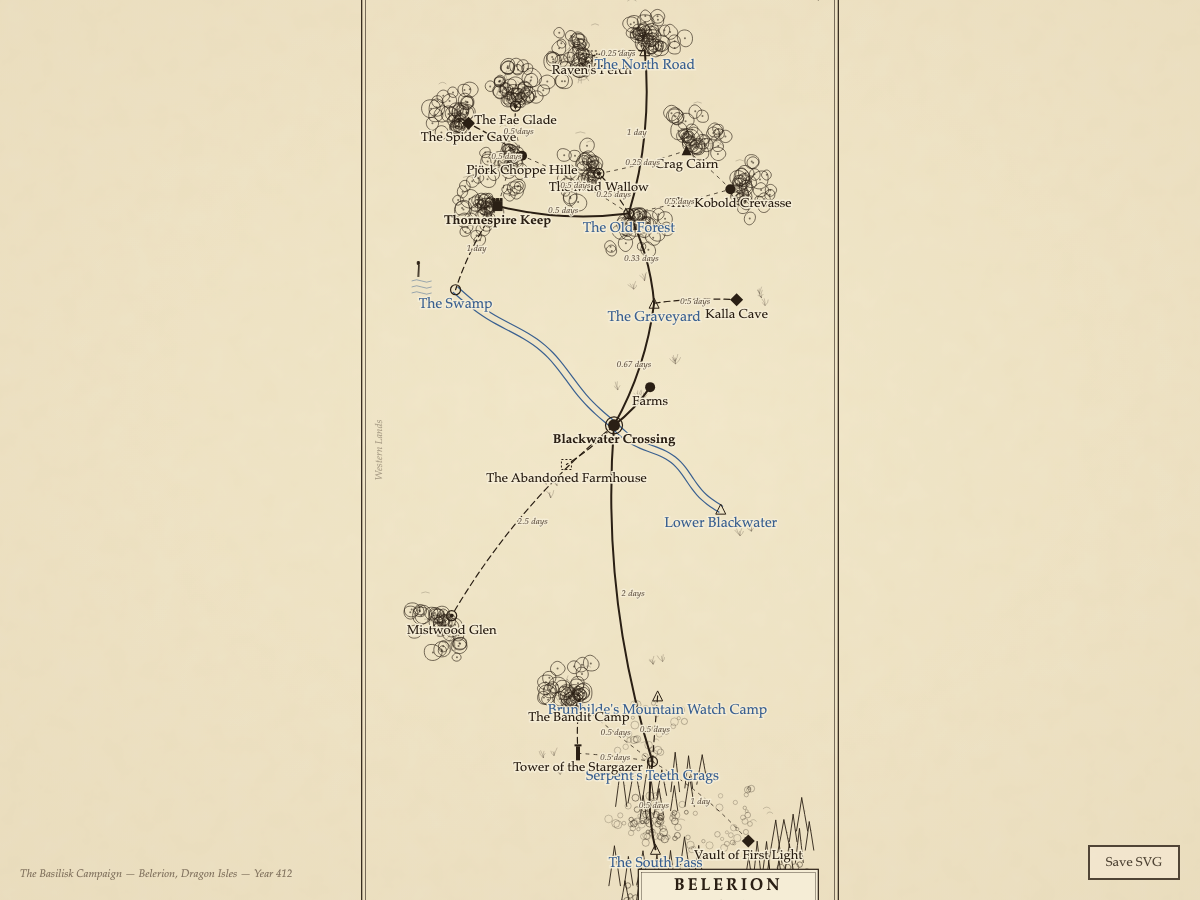
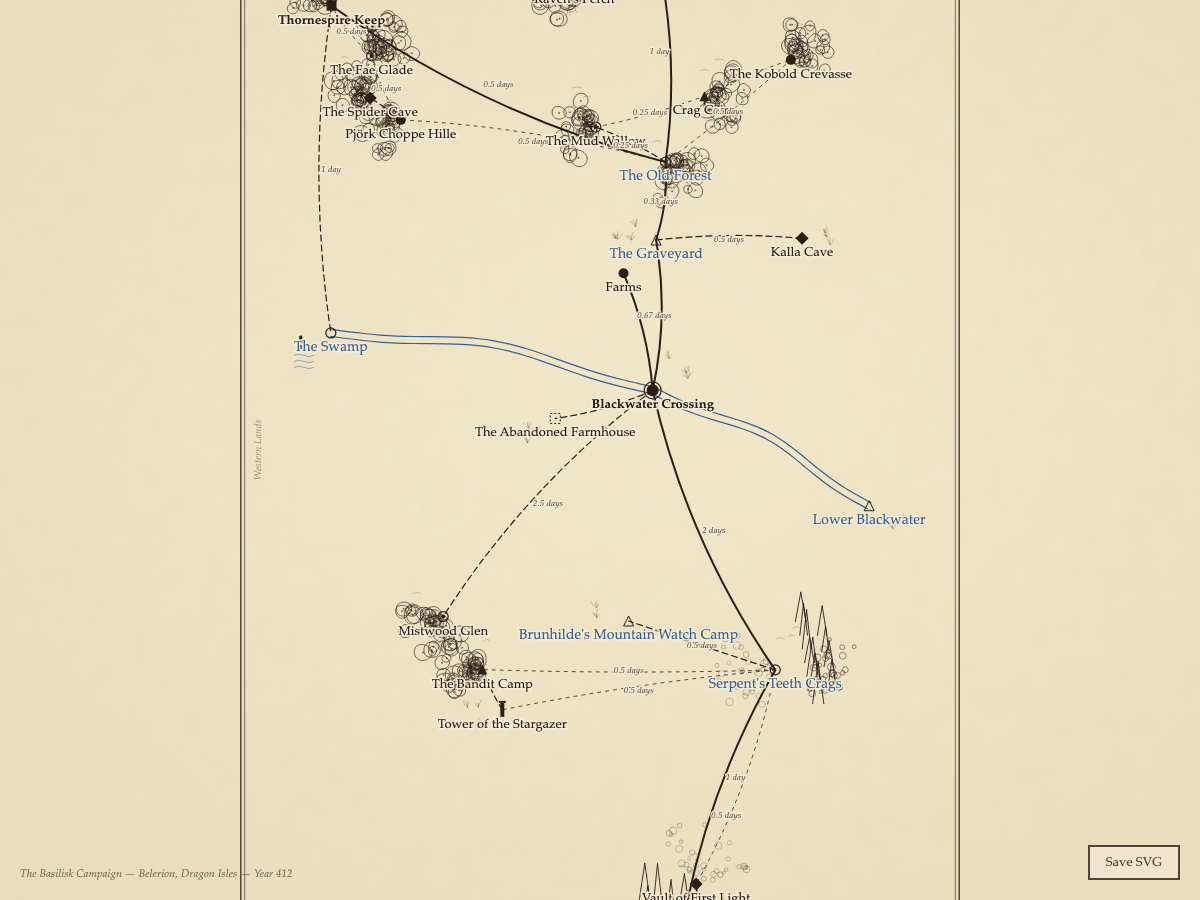
wip

diff --git a/maps/wilderland.html b/maps/wilderland.html
@@ -130,7 +130,7 @@ const PARCHMENT_DARK = "#ddd0b4";
 
 const WIDTH = window.innerWidth;
 const HEIGHT = window.innerHeight;
-const HINT_SCALE = 3;
+const HINT_SCALE = 100; // 1 unit = 1 inch on the hand-drawn 8.5x11 map
 const DAY_SCALE = 100;
 
 // --- Seeded random for deterministic symbol placement ---
@@ -276,8 +276,8 @@ function drawRocks(g, x, y, size, rng) {
   // Scattered small pebble circles — distinctive Wilderland texture
   const count = 9 + Math.floor(rng() * 8);
   for (let i = 0; i < count; i++) {
-    const rx = x + (rng() - 0.5) * size * 1.8;
-    const ry = y + (rng() - 0.5) * size * 1.5;
+    const rx = x + (rng() - 0.5) * size * 2.2;
+    const ry = y + (rng() - 0.5) * size * 1.9;
     const r = 1.5 + rng() * 2.5;
     g.append("circle")
       .attr("cx", rx).attr("cy", ry)
@@ -431,7 +431,7 @@ function renderTerrainSymbols(container, nodes, links) {
         const r = offset * (0.15 + rng() * 0.5);
         const tx = node.x + Math.cos(a) * r;
         const ty = node.y + Math.sin(a) * r;
-        drawTreeCanopy(terrainGroup, tx, ty, 10 + rng() * 5, rng);
+        drawTreeCanopy(terrainGroup, tx, ty, 13 + rng() * 5, rng);
       }
       // Second cluster — deeper forest layer at larger radius
       const count2 = 10 + Math.floor(rng() * 6);
@@ -440,7 +440,7 @@ function renderTerrainSymbols(container, nodes, links) {
         const r = offset * (0.8 + rng() * 0.4);
         const tx = node.x + Math.cos(a) * r;
         const ty = node.y + Math.sin(a) * r;
-        drawTreeCanopy(terrainGroup, tx, ty, 10 + rng() * 5, rng);
+        drawTreeCanopy(terrainGroup, tx, ty, 13 + rng() * 5, rng);
       }
       // Spiderwebs scattered among the trees
       const webCount = 1 + Math.floor(rng() * 2);
@@ -952,11 +952,11 @@ async function initMap() {
   });
 
   const simulation = d3.forceSimulation(nodes)
-    .force("link", d3.forceLink(links).id(d => d.id).distance(d => Math.max(40, (d.days || 1) * DAY_SCALE)))
-    .force("charge", d3.forceManyBody().strength(-200))
-    .force("collide", d3.forceCollide(25))
-    .force("x", d3.forceX(d => (d.x_hint || 0) * HINT_SCALE + WIDTH / 2).strength(0.3))
-    .force("y", d3.forceY(d => (d.y_hint || 0) * HINT_SCALE + HEIGHT / 2).strength(0.3));
+    .force("link", d3.forceLink(links).id(d => d.id).distance(d => Math.max(40, (d.days || 1) * DAY_SCALE)).strength(0.05))
+    .force("charge", d3.forceManyBody().strength(-50))
+    .force("collide", d3.forceCollide(15))
+    .force("x", d3.forceX(d => (d.x_hint || 0) * HINT_SCALE + WIDTH / 2).strength(0.9))
+    .force("y", d3.forceY(d => (d.y_hint || 0) * HINT_SCALE + HEIGHT / 2).strength(0.9));
 
   simulation.stop();
   for (let i = 0; i < 300; i++) simulation.tick();

diff --git a/maps/treasuremap.html b/maps/treasuremap.html
@@ -139,7 +139,7 @@ const DARK_INK = "#3a3a30";
 
 const WIDTH = window.innerWidth;
 const HEIGHT = window.innerHeight;
-const HINT_SCALE = 3;
+const HINT_SCALE = 100; // 1 unit = 1 inch on the hand-drawn 8.5x11 map
 const DAY_SCALE = 100;
 
 // --- Seeded random ---
@@ -634,6 +634,20 @@ function renderCartouche(container, bounds, meta) {
       .text(meta.region + (meta.world ? ", " + meta.world : ""));
   }
 
+  // Era below region
+  if (meta.era) {
+    container.append("text")
+      .attr("x", bx)
+      .attr("y", by + 28)
+      .attr("text-anchor", "start")
+      .attr("font-family", "'Palatino Linotype', 'Book Antiqua', Palatino, serif")
+      .attr("font-size", "9px")
+      .attr("font-style", "italic")
+      .attr("fill", BLUE_LIGHT)
+      .attr("opacity", 0.5)
+      .text(meta.era);
+  }
+
   // Underline
   const textLen = meta.campaign.length * 6.5;
   container.append("line")
@@ -701,7 +715,7 @@ function renderAnnotations(container, nodes) {
       .attr("text-anchor", "middle")
       .attr("transform", `rotate(${rotation}, ${ax}, ${ay})`)
       .attr("font-family", "'Palatino Linotype', serif")
-      .attr("font-size", "9px")
+      .attr("font-size", "10px")
       .attr("font-style", "italic")
       .attr("fill", color)
       .attr("stroke", PARCHMENT)
@@ -944,11 +958,11 @@ async function initMap() {
   });
 
   const simulation = d3.forceSimulation(nodes)
-    .force("link", d3.forceLink(links).id(d => d.id).distance(d => Math.max(40, (d.days || 1) * DAY_SCALE)))
-    .force("charge", d3.forceManyBody().strength(-200))
-    .force("collide", d3.forceCollide(25))
-    .force("x", d3.forceX(d => (d.x_hint || 0) * HINT_SCALE + WIDTH / 2).strength(0.3))
-    .force("y", d3.forceY(d => (d.y_hint || 0) * HINT_SCALE + HEIGHT / 2).strength(0.3));
+    .force("link", d3.forceLink(links).id(d => d.id).distance(d => Math.max(40, (d.days || 1) * DAY_SCALE)).strength(0.05))
+    .force("charge", d3.forceManyBody().strength(-50))
+    .force("collide", d3.forceCollide(15))
+    .force("x", d3.forceX(d => (d.x_hint || 0) * HINT_SCALE + WIDTH / 2).strength(0.9))
+    .force("y", d3.forceY(d => (d.y_hint || 0) * HINT_SCALE + HEIGHT / 2).strength(0.9));
 
   simulation.stop();
   for (let i = 0; i < 300; i++) simulation.tick();

diff --git a/maps/world.html b/maps/world.html
@@ -132,7 +132,7 @@ const PARCHMENT_DARK = "#d4c4a0";
 
 const WIDTH = window.innerWidth;
 const HEIGHT = window.innerHeight;
-const HINT_SCALE = 3;
+const HINT_SCALE = 100; // 1 unit = 1 inch on the hand-drawn 8.5x11 map
 const DAY_SCALE = 100;
 
 // --- Seeded random ---
@@ -216,7 +216,7 @@ function drawForestHatch(g, x, y, size, rng) {
         .attr("x2", x + hWidth).attr("y2", ly)
         .attr("stroke", INK)
         .attr("stroke-width", 0.5)
-        .attr("opacity", 0.85);
+        .attr("opacity", 0.9);
     }
   }
 
@@ -226,7 +226,7 @@ function drawForestHatch(g, x, y, size, rng) {
     .attr("rx", rx).attr("ry", ry)
     .attr("fill", "none")
     .attr("stroke", INK)
-    .attr("stroke-width", 0.6)
+    .attr("stroke-width", 0.8)
     .attr("opacity", 0.8);
 }
 
@@ -836,11 +836,11 @@ async function initMap() {
   });
 
   const simulation = d3.forceSimulation(nodes)
-    .force("link", d3.forceLink(links).id(d => d.id).distance(d => Math.max(40, (d.days || 1) * DAY_SCALE)))
-    .force("charge", d3.forceManyBody().strength(-200))
-    .force("collide", d3.forceCollide(25))
-    .force("x", d3.forceX(d => (d.x_hint || 0) * HINT_SCALE + WIDTH / 2).strength(0.3))
-    .force("y", d3.forceY(d => (d.y_hint || 0) * HINT_SCALE + HEIGHT / 2).strength(0.3));
+    .force("link", d3.forceLink(links).id(d => d.id).distance(d => Math.max(40, (d.days || 1) * DAY_SCALE)).strength(0.05))
+    .force("charge", d3.forceManyBody().strength(-50))
+    .force("collide", d3.forceCollide(15))
+    .force("x", d3.forceX(d => (d.x_hint || 0) * HINT_SCALE + WIDTH / 2).strength(0.9))
+    .force("y", d3.forceY(d => (d.y_hint || 0) * HINT_SCALE + HEIGHT / 2).strength(0.9));
 
   simulation.stop();
   for (let i = 0; i < 300; i++) simulation.tick();

diff --git a/maps/original.html b/maps/original.html
@@ -129,7 +129,7 @@ const PARCHMENT_DARK = "#d4c4a0";
 
 const WIDTH = window.innerWidth;
 const HEIGHT = window.innerHeight;
-const HINT_SCALE = 3;
+const HINT_SCALE = 100; // 1 unit = 1 inch on the hand-drawn 8.5x11 map
 const DAY_SCALE = 100;
 
 // --- Seeded random for deterministic symbol placement ---
@@ -653,12 +653,11 @@ async function initMap() {
 
   // Force simulation
   const simulation = d3.forceSimulation(nodes)
-    .force("link", d3.forceLink(links).id(d => d.id).distance(d => Math.max(40, (d.days || 1) * DAY_SCALE)))
-    .force("charge", d3.forceManyBody().strength(-200))
-    .force("collide", d3.forceCollide(25))
-    // Pull toward hint positions
-    .force("x", d3.forceX(d => (d.x_hint || 0) * HINT_SCALE + WIDTH / 2).strength(0.3))
-    .force("y", d3.forceY(d => (d.y_hint || 0) * HINT_SCALE + HEIGHT / 2).strength(0.3));
+    .force("link", d3.forceLink(links).id(d => d.id).distance(d => Math.max(40, (d.days || 1) * DAY_SCALE)).strength(0.05))
+    .force("charge", d3.forceManyBody().strength(-50))
+    .force("collide", d3.forceCollide(15))
+    .force("x", d3.forceX(d => (d.x_hint || 0) * HINT_SCALE + WIDTH / 2).strength(0.9))
+    .force("y", d3.forceY(d => (d.y_hint || 0) * HINT_SCALE + HEIGHT / 2).strength(0.9));
 
   // Run to convergence
   simulation.stop();

diff --git a/CLAUDE.md b/CLAUDE.md
@@ -58,7 +58,7 @@ Always update **both** the database AND the JSON to keep them in sync:
 - `terrain`: plains, forest, mountains, swamp
 - `path_type`: road, trail, wilderness, river
 - `terrain_difficulty`: easy, tough, perilous
-- `x_hint`/`y_hint`: relative coordinates seeding the D3 force layout. 0,0 is center.
+- `x_hint`/`y_hint`: position in inches relative to Blackwater Crossing (0,0). Positive x = east, positive y = south. Based on the hand-drawn 8.5"×11" campaign map.
 
 ## Known DB Issues
 
